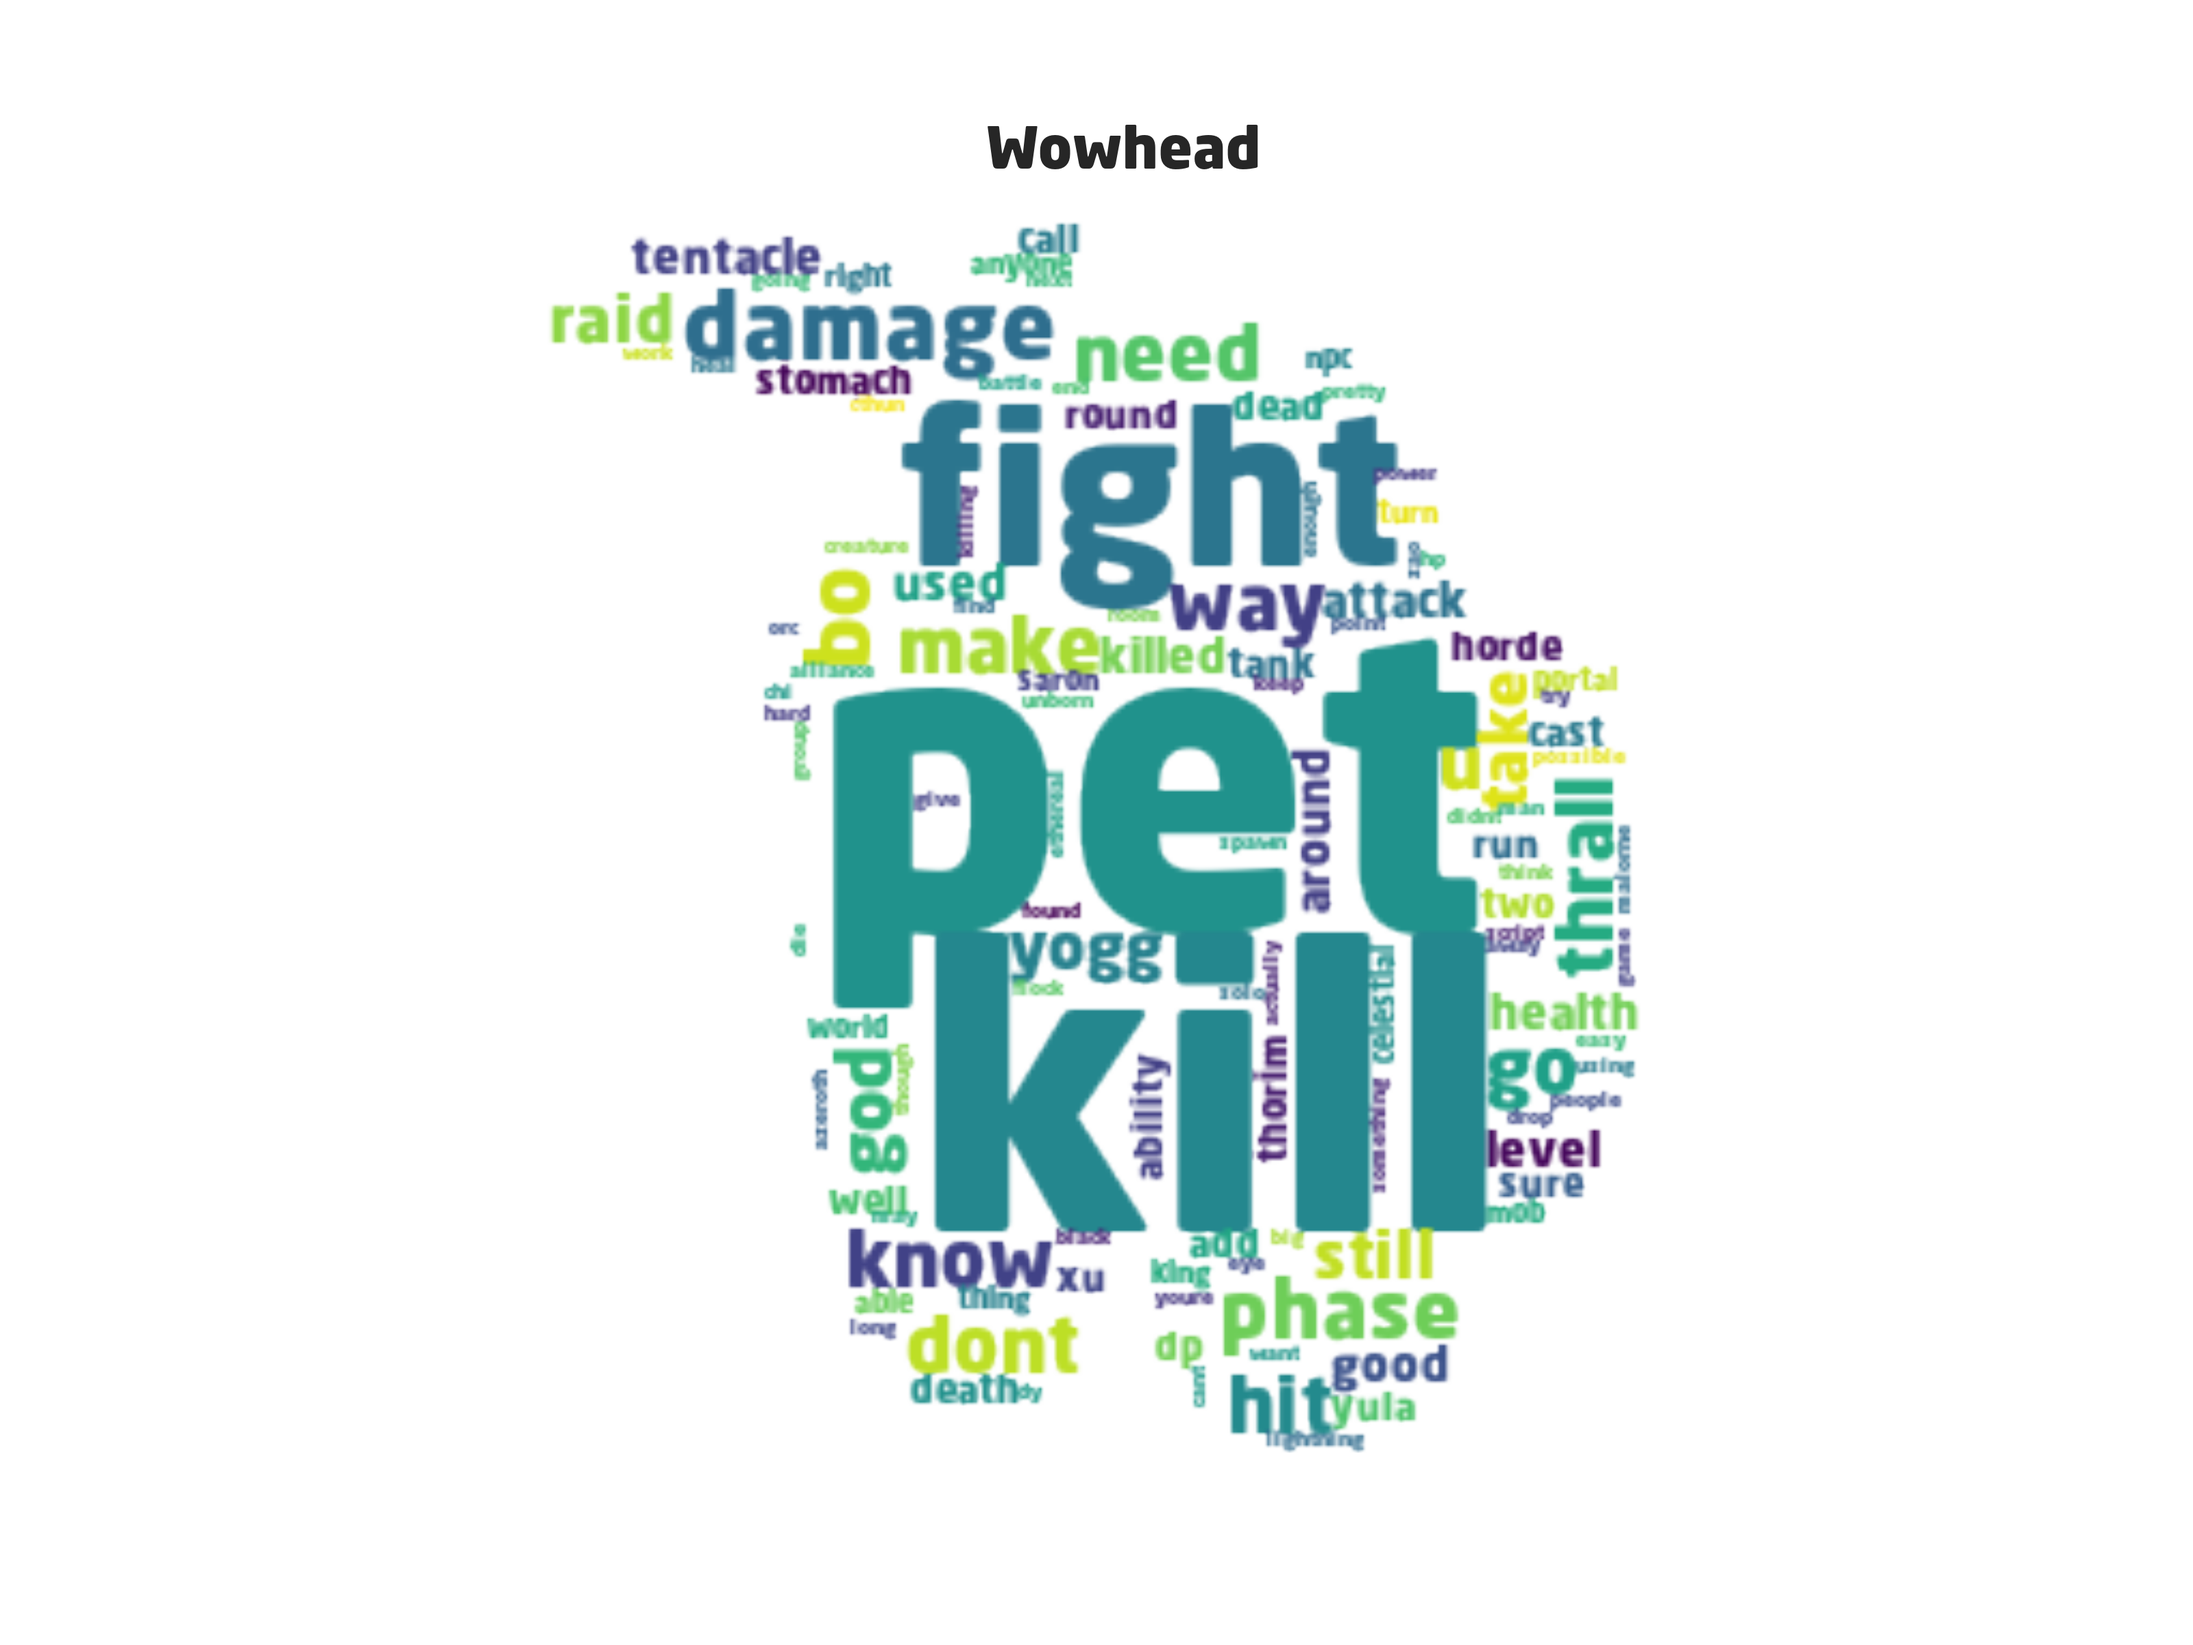
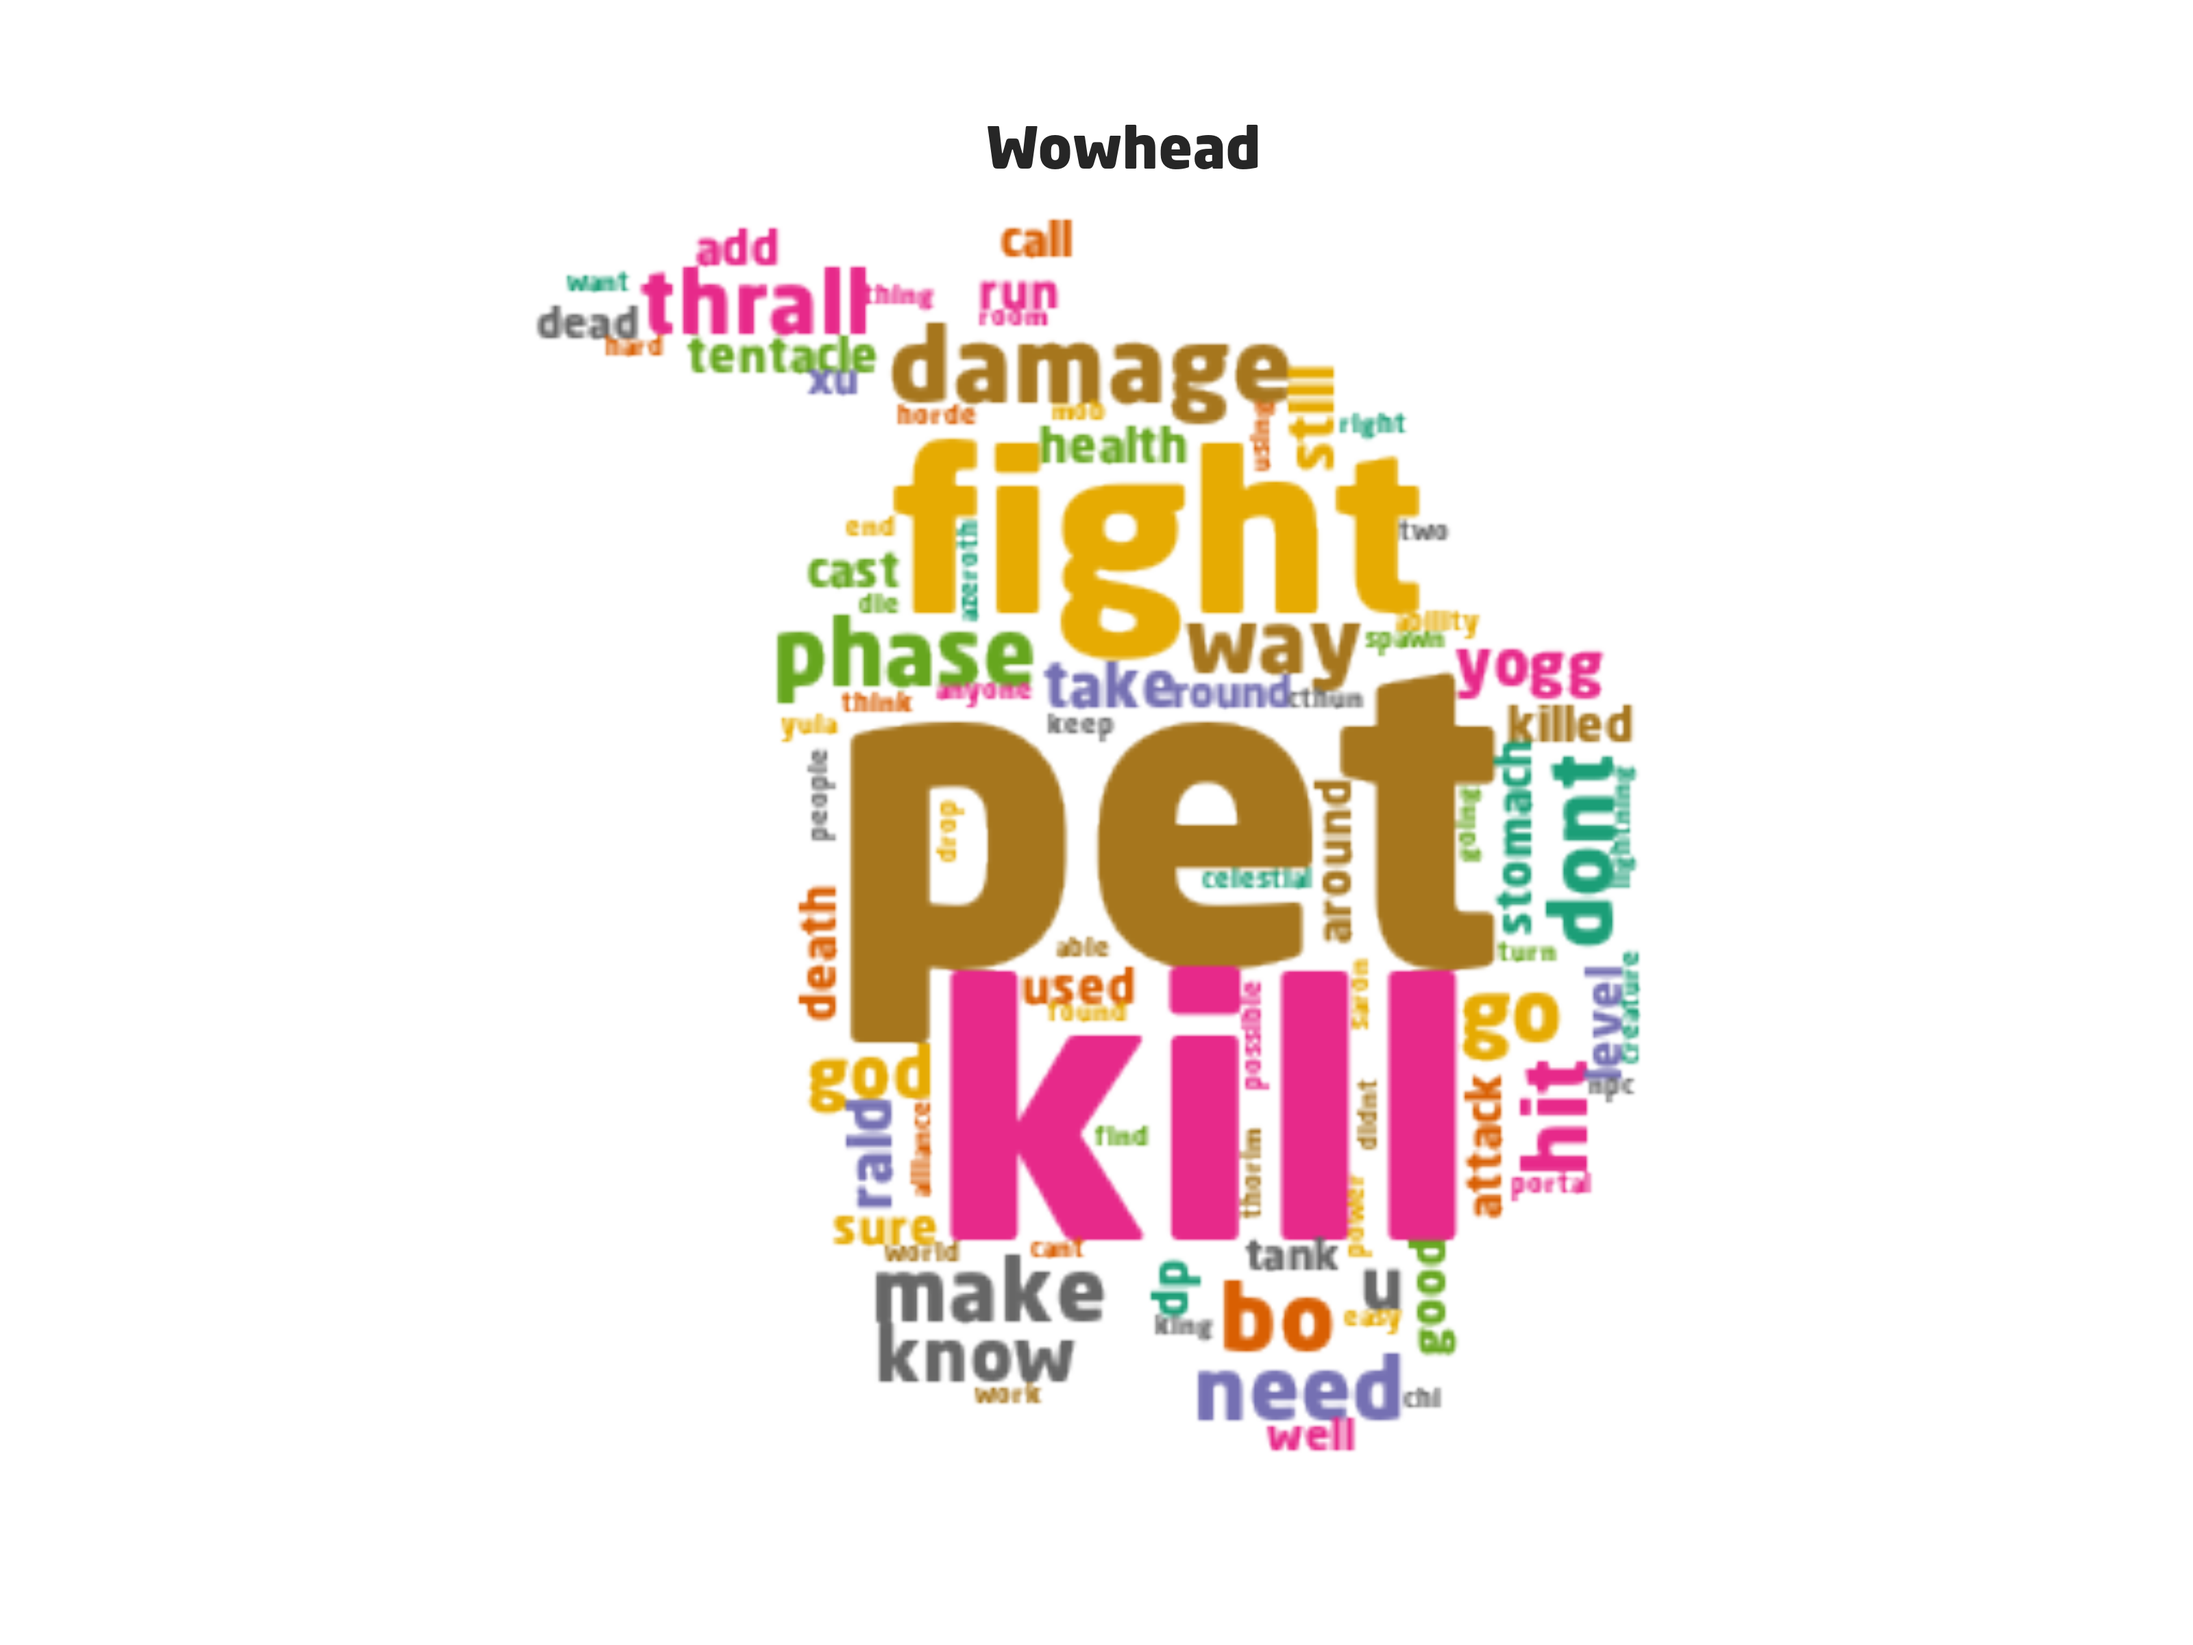
update color map of wordclouds

Changed region(s): [[0.25, 0.125, 0.75, 0.9062]]

diff --git a/text_helpers.py b/text_helpers.py
@@ -97,13 +97,12 @@ def disp_wordcloud(col_idx, collection, maskpath='', savepath='', title=''):
         WordCloud(
             max_words=1000, 
             margin=1,
-            # max_font_size=500,
-            # min_font_size=30,
             collocations=False, 
             mask=mask,
             background_color="rgba(255, 255, 255, 0)", 
             mode="RGBA",
             font_path=FONT_PATH,
+            colormap='Dark2',
         )
         .generate(collection[col_idx]['wordcloud'])
         .to_array()
